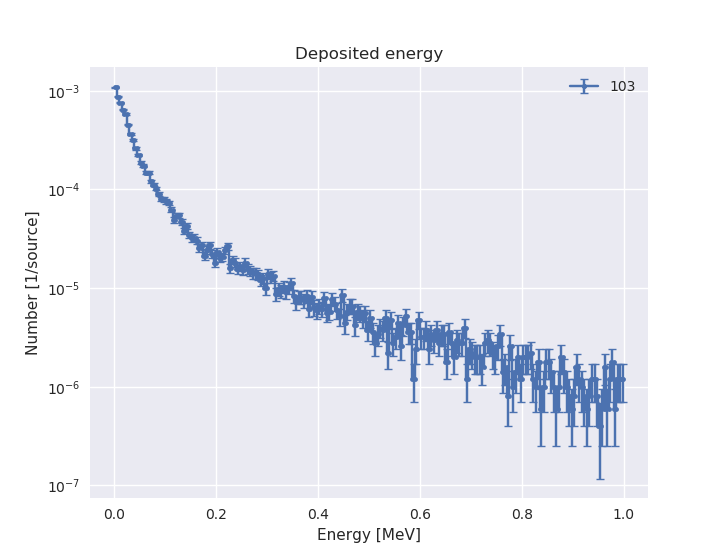
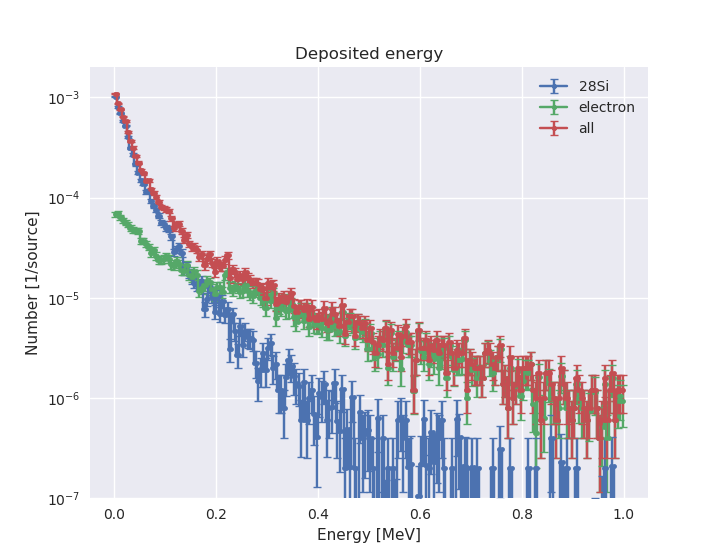
Se agregan partículas a grafico de energia depositada

diff --git a/experimento_skccd/phits/grafica_depo.py b/experimento_skccd/phits/grafica_depo.py
@@ -22,7 +22,8 @@ if __name__ == '__main__':
 
     fig, ax = plt.subplots(1, 1)
     particles = ['28Si', '25Mg', 'positron', 'electron', 'alpha', 'all']
-    particles = ['all']
+    particles = ['28Si', 'electron', 'all']
+#    particles = ['all']
 
     for zona in zonas:
         data = lee_espectro_phits_eng(archivo, zona)
@@ -32,7 +33,7 @@ if __name__ == '__main__':
             val = data[part][:, 0]
             std_val = val * data[part][:, 1]
             (_, caps, _) = ax.errorbar(eng, val, yerr=std_val, fmt='.-',
-                                       label=zona, capsize=3,
+                                       label=part, capsize=3,
                                        drawstyle='steps-mid',
                                        )
             for cap in caps:
@@ -42,6 +43,7 @@ if __name__ == '__main__':
             ax.set_xlabel('Energy [MeV]')
             ax.set_ylabel('Number [1/source]')
             ax.legend()
+            ax.set_ylim(1e-7, 2e-3)
         fig.gca().set_title('Deposited energy')
 
     fig.savefig('deposited_Si.png')
